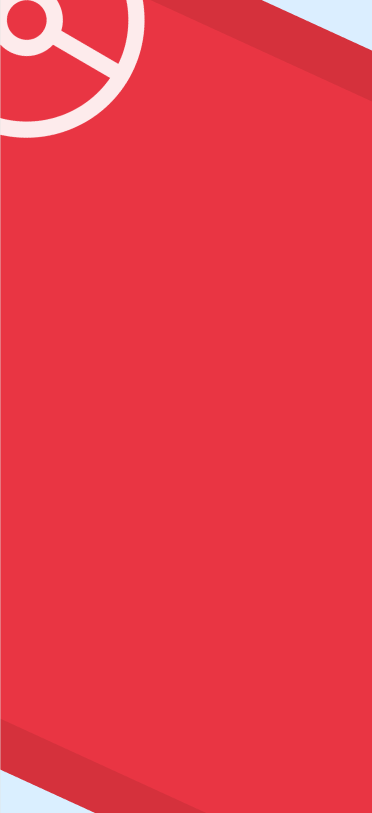
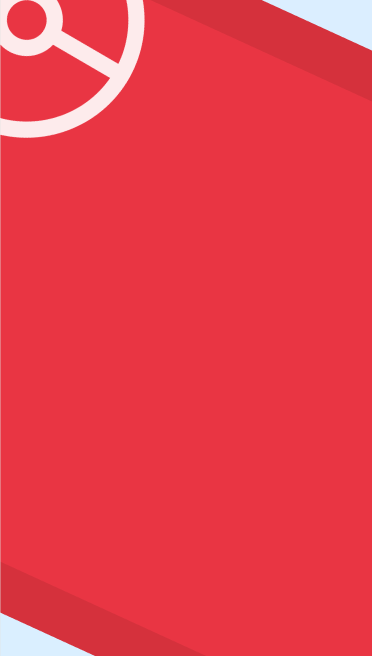
add bg image with rotom to home bg choice

diff --git a/lib/Screens/Home/home.dart b/lib/Screens/Home/home.dart
@@ -17,7 +17,7 @@ class _HomeScreenState extends State<HomeScreen> {
         decoration: BoxDecoration(
             image: DecorationImage(
           image: AssetImage(
-            "./assets/material-image/home-background2.png",
+            "./assets/material-image/home-background-with-rotom.png",
           ),
           fit: BoxFit.cover,
         )),
@@ -36,6 +36,7 @@ class _HomeScreenState extends State<HomeScreen> {
                       Container(
                         height: 110,
                         width: 110,
+                        margin: EdgeInsets.only(bottom: 10),
                         child: MaterialButton(
                           child: Image.asset('assets/icon/pokedex_icon.png'),
                           color: Colors.white,
@@ -59,6 +60,7 @@ class _HomeScreenState extends State<HomeScreen> {
                       Container(
                         height: 110,
                         width: 110,
+                        margin: EdgeInsets.only(bottom: 10),
                         child: MaterialButton(
                           child: Image.asset('assets/icon/compare_icon.png'),
                           color: Colors.white,
@@ -82,6 +84,7 @@ class _HomeScreenState extends State<HomeScreen> {
                       Container(
                         height: 110,
                         width: 110,
+                        margin: EdgeInsets.only(bottom: 10),
                         child: MaterialButton(
                           child:
                               Image.asset('assets/icon/teambuilder_icon.png'),
@@ -106,6 +109,7 @@ class _HomeScreenState extends State<HomeScreen> {
                       Container(
                         height: 110,
                         width: 110,
+                        margin: EdgeInsets.only(bottom: 10),
                         child: MaterialButton(
                           child: Image.asset('assets/icon/fav_icon.png'),
                           color: Colors.white,
